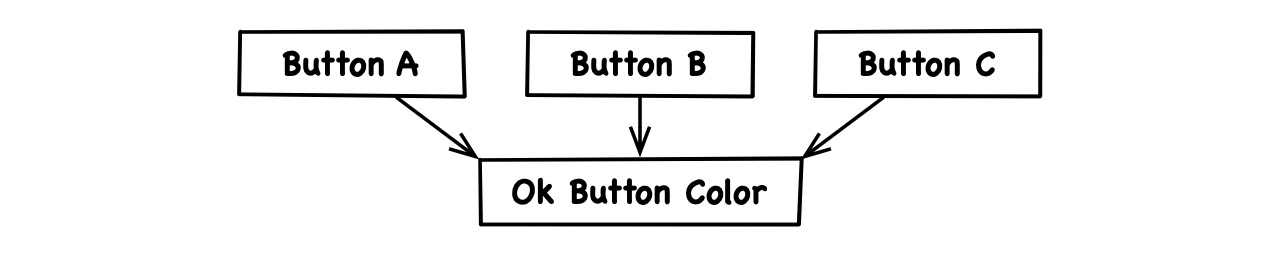
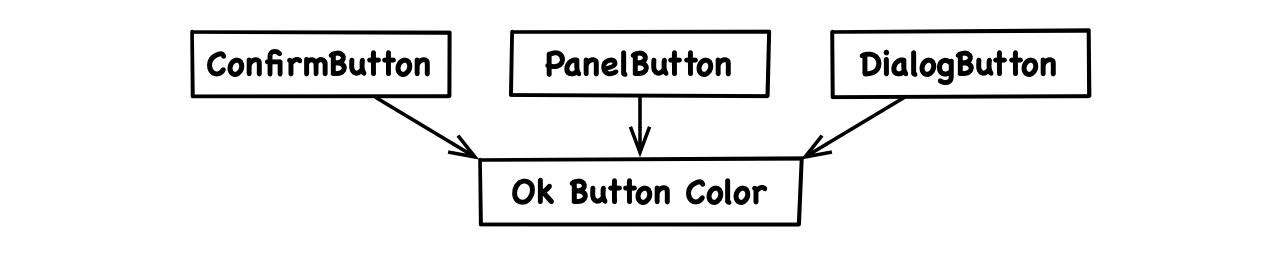
Edit post

Changed region(s): [[0.125, 0.0938, 0.875, 0.625]]

diff --git a/_posts/2019-08-26-code-structure-is-determined-by-dependencies.md b/_posts/2019-08-26-code-structure-is-determined-by-dependencies.md
@@ -173,19 +173,19 @@ UML offers countless variants of diagrams and all of them have their place. Just
 
 The confusion between structure and meaning goes beyond UML. 
 
-Imagine having multiple ok buttons in an application. Now the designer decides that ok buttons ought to be green, so the developer goes and sets the background color of every ok button:
+Imagine having multiple button classes in a codebase. Now the designer decides that Ok buttons ought to be green, so the developer goes and sets the button background color in all button classes that use the title "Ok":
 
 ![](/blog-images/software-development/architecture/buttons-with-false-dependency.jpg)
 
-Doesn't that introduce dependencies between the buttons? After all, we now can't change one button's color in isolation, we'd have to adjust all other ok buttons.
+Doesn't that introduce dependencies between those classes? After all, if we now change one Ok button color, we'd have to adjust all other Ok buttons.
 
-What if the designer would suddenly declare that all buttons are actually unique and could have different colors? Now the green background colors would stop being dependencies. How can a dependency in code fluctuate with the mood of the designer?
+What if the designer would suddenly declare that all buttons are actually unique and *could* have different colors? Now the green button colors would stop being dependencies. How can a dependency in code fluctuate with the mood of the designer?
 
-This is not real dependence. None of the buttons call or contain another. Whether we "must" change the other buttons when we change one of them depends entirely on our idea of the design, which is part of the [value environment](https://www.flowtoolz.com/2019/08/25/code-represents-customer-value-and-technology.html). So is the concept of an ok button or at least of an ok button color a real thing or not?
+This is not real dependence. None of the button classes with green color reference or contain another. Whether we "must" change the other buttons when we change one of them depends entirely on our idea of the design and, thereby, on the [value environment](https://www.flowtoolz.com/2019/08/25/code-represents-customer-value-and-technology.html). So is the concept of an Ok button or at least of an Ok button color a real thing or not?
 
-The problem of having to adjust all the button colors arises when we think the concept of an ok button color exists while we don't express it in code, which means we're lying. Would the concept exist in code as well, there would be only one place to change it:
+The problem of having to adjust all the button colors arises when we think the concept of an Ok button color exists while we don't express it in code, which means we're lying. Would the concept exist in code as well, there would be only one place to change it:
 
 ![](/blog-images/software-development/architecture/buttons-depending-on-color.jpg)
 
-Producing untruthful code is not the same as introducing dependencies. It relates to architecture in so far as it violates the principle that [the meaning of code roots in value- and tech environment](https://www.flowtoolz.com/2019/08/25/code-represents-customer-value-and-technology.html). We'll connect the meaning and structure of code in the next post.
+Producing untrue code is not the same as introducing dependencies. It relates to architecture in so far as it violates the principle that [code expresses value- and tech environment](https://www.flowtoolz.com/2019/08/25/code-represents-customer-value-and-technology.html) and that effective code would rather tell the truth. In the next discussion, we'll connect that meaning of code with the structural architecture we described here.
 
